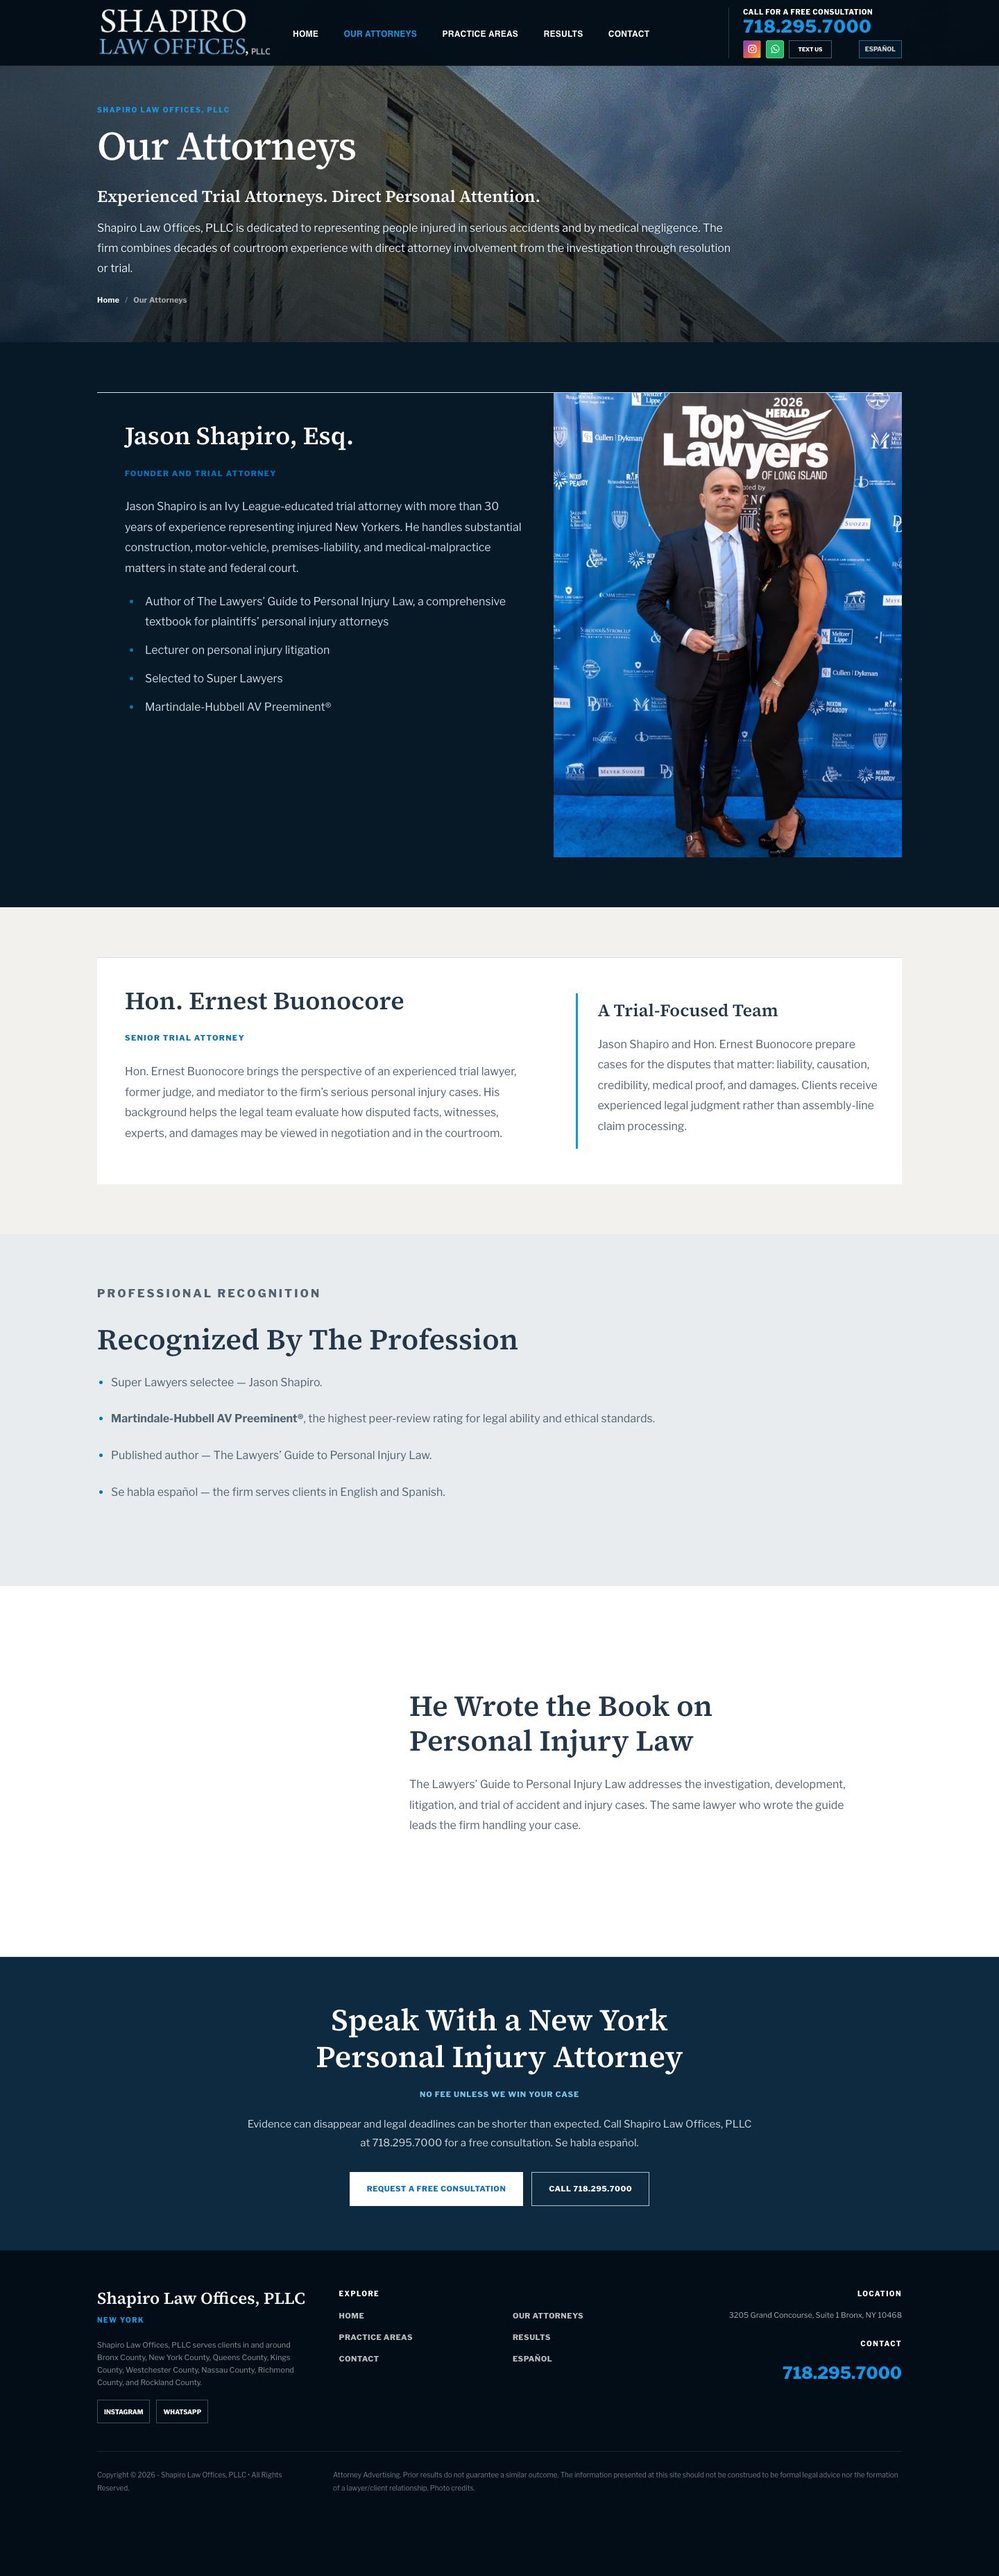
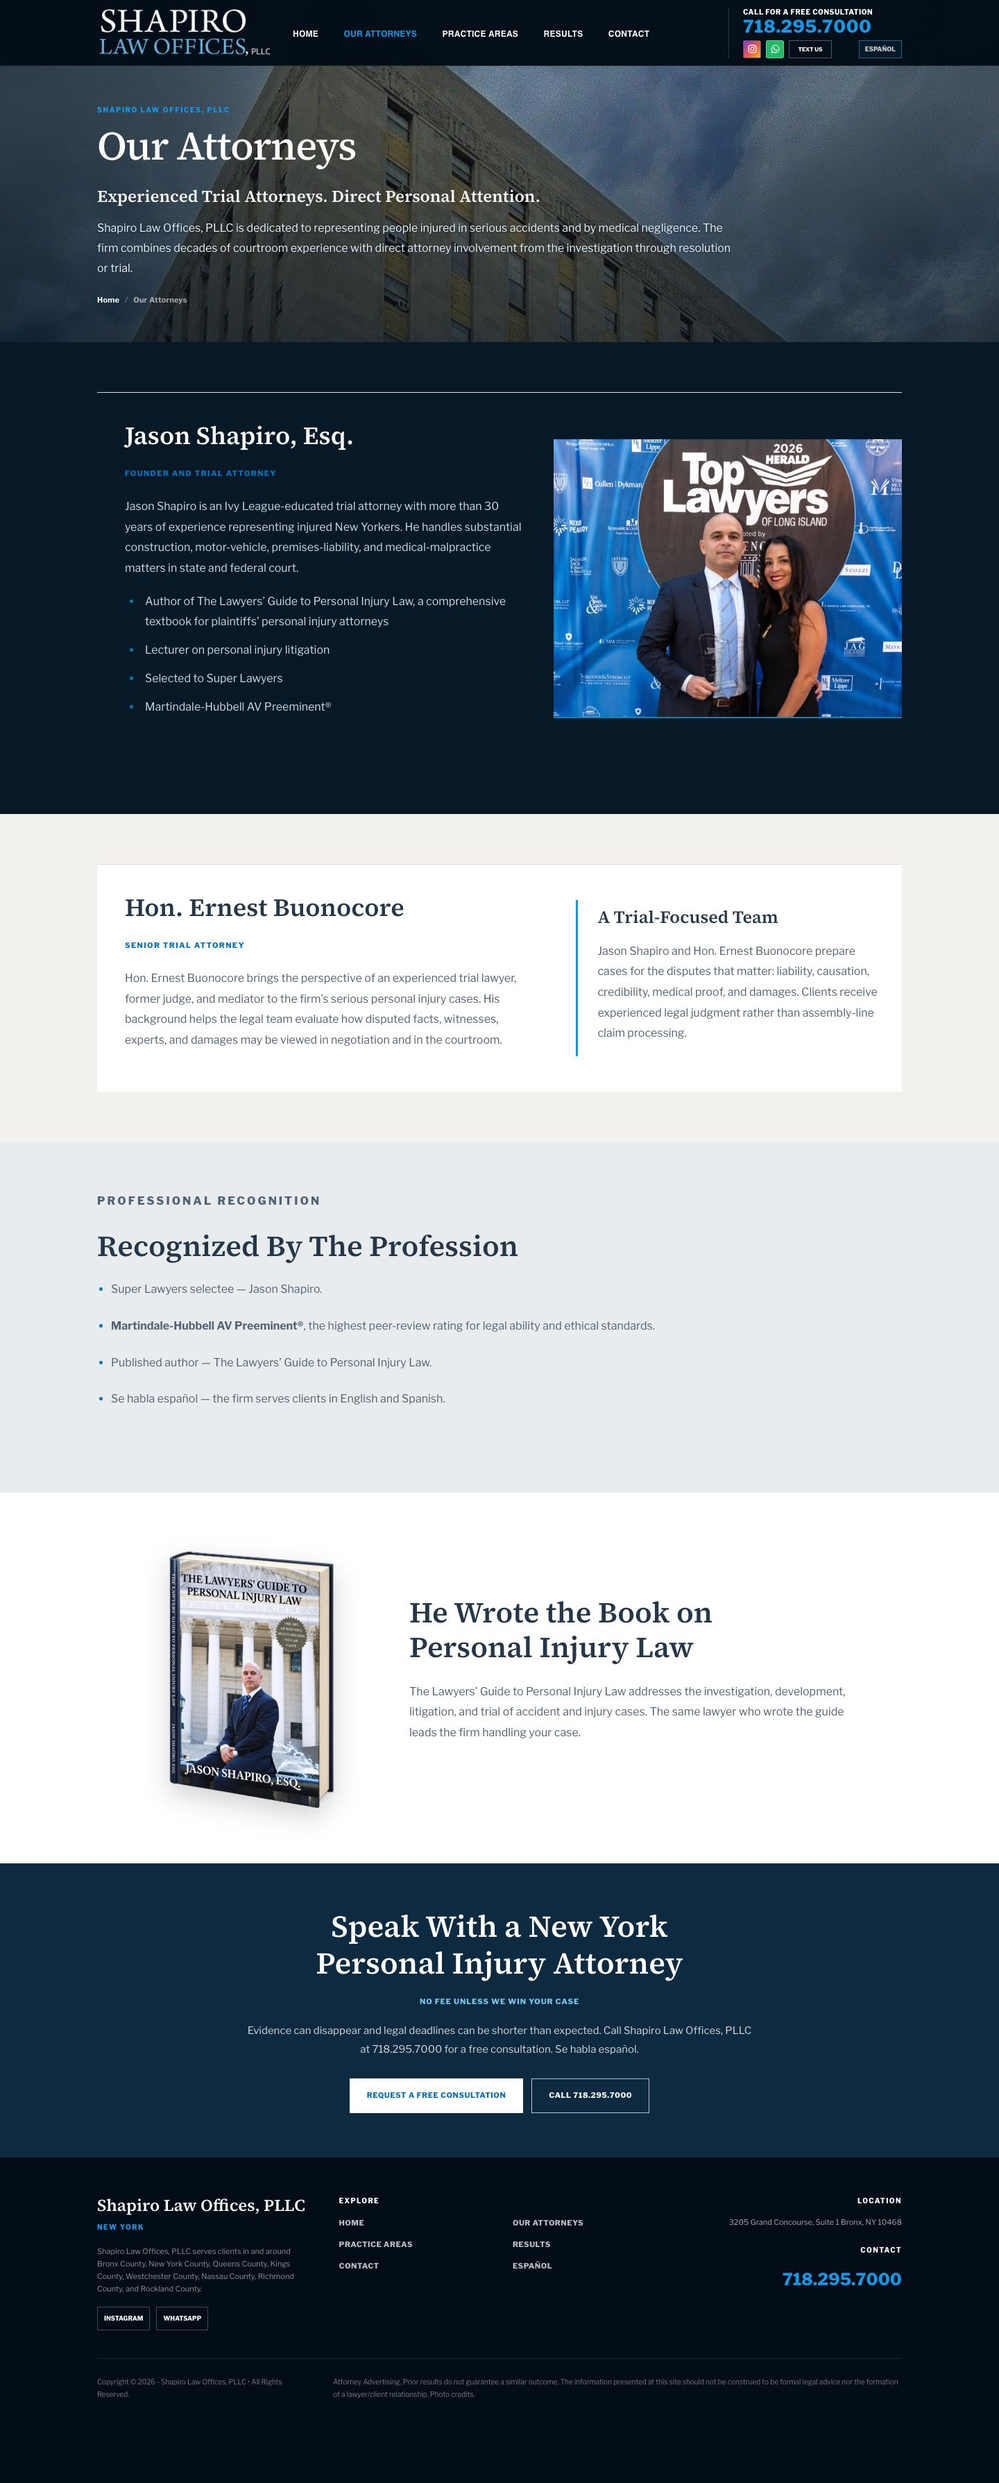
Tighten event photo framing in attorney biographies

diff --git a/css/design-refinement.css b/css/design-refinement.css
@@ -93,8 +93,8 @@
 .design-refined.client-site .client-recognition-list { max-width:980px; margin:24px 0 0; padding-left:24px; }
 .design-refined.client-site .client-recognition-list > li { margin-bottom:18px; padding-left:8px; }
 .design-refined .client-recognition-list p { margin:0; font-size:16px; line-height:1.8; }
-.design-refined .client-attorney-profile__media--event { min-height:0; max-height:none; align-self:center; }
-.design-refined .client-attorney-profile__media--event img { display:block; width:100%; height:auto; max-height:none; object-fit:contain; }
+.design-refined .client-attorney-profile__media--event { width:100%; aspect-ratio:5/4; min-height:0; max-height:none; align-self:center; overflow:hidden; border-bottom:2px solid #1981ad; }
+.design-refined .client-attorney-profile__media--event img { display:block; width:100%; height:100%; max-height:none; object-fit:cover; object-position:50% 8%; }
 .design-refined .client-contact-card { box-shadow:none; border:1px solid var(--design-line); border-top:3px solid #147faa; padding:32px; }
 .design-refined .client-contact-card__heading { font-size:30px!important; }
 .design-refined .client-contact__map iframe { height:300px; }
@@ -163,8 +163,8 @@
  .design-refined .client-attorney-profile__grid { grid-template-columns:1fr; }
  .design-refined .client-attorney-profile__media { max-height:540px; min-height:0; }
  .design-refined .client-attorney-profile__media img { max-height:540px; object-fit:contain; }
- .design-refined .client-attorney-profile__media--event { max-height:none; }
- .design-refined .client-attorney-profile__media--event img { width:min(100%,420px); margin-inline:auto; max-height:none; }
+ .design-refined .client-attorney-profile__media--event { width:calc(100% - 48px); max-width:560px; margin:0 auto 28px; max-height:none; }
+ .design-refined .client-attorney-profile__media--event img { width:100%; height:100%; margin:0; max-height:none; object-fit:cover; }
 }
 @media(max-width:680px){
  .design-refined .client-shell { width:calc(100% - 40px); }

diff --git a/es/practice-areas/medical-malpractice.html b/es/practice-areas/medical-malpractice.html
@@ -12,7 +12,7 @@
 <link href="../../css/styles.css?v=20260917-1" rel="stylesheet"/>
 <link href="https://4mphz.github.io/shapiro-law-redesign-concept/practice-areas/medical-malpractice.html" hreflang="en" rel="alternate"/>
 <link href="https://4mphz.github.io/shapiro-law-redesign-concept/es/practice-areas/medical-malpractice.html" hreflang="es" rel="alternate"/>
-<link href="../../css/approved-copy.css?v=20260927-2" rel="stylesheet"/><link href="../../css/design-refinement.css?v=20260927-2" rel="stylesheet"/></head>
+<link href="../../css/approved-copy.css?v=20260927-2" rel="stylesheet"/><link href="../../css/design-refinement.css?v=20260927-3" rel="stylesheet"/></head>
 <body class="client-site client-inner client-practice-page client-practice-detail-page client-practice-detail-page--medical-malpractice client-document-copy design-refined">
 <a class="skip-link" href="#main-content">Saltar al contenido principal</a>
 <header class="site-header client-header" id="site-header">

diff --git a/practice-areas/medical-malpractice.html b/practice-areas/medical-malpractice.html
@@ -12,7 +12,7 @@
 <link href="../css/styles.css?v=20260917-1" rel="stylesheet"/>
 <link href="https://4mphz.github.io/shapiro-law-redesign-concept/practice-areas/medical-malpractice.html" hreflang="en" rel="alternate"/>
 <link href="https://4mphz.github.io/shapiro-law-redesign-concept/es/practice-areas/medical-malpractice.html" hreflang="es" rel="alternate"/>
-<link href="../css/approved-copy.css?v=20260927-2" rel="stylesheet"/><link href="../css/design-refinement.css?v=20260927-2" rel="stylesheet"/></head>
+<link href="../css/approved-copy.css?v=20260927-2" rel="stylesheet"/><link href="../css/design-refinement.css?v=20260927-3" rel="stylesheet"/></head>
 <body class="client-site client-inner client-practice-page client-practice-detail-page client-practice-detail-page--medical-malpractice client-document-copy client-september-copy design-refined">
 <a class="skip-link" href="#main-content">Skip to main content</a>
 <header class="site-header client-header" id="site-header">

diff --git a/es/practice-areas/construction-scaffold.html b/es/practice-areas/construction-scaffold.html
@@ -12,7 +12,7 @@
 <link href="../../css/styles.css?v=20260917-1" rel="stylesheet"/>
 <link href="https://4mphz.github.io/shapiro-law-redesign-concept/practice-areas/construction-scaffold.html" hreflang="en" rel="alternate"/>
 <link href="https://4mphz.github.io/shapiro-law-redesign-concept/es/practice-areas/construction-scaffold.html" hreflang="es" rel="alternate"/>
-<link href="../../css/approved-copy.css?v=20260927-2" rel="stylesheet"/><link href="../../css/design-refinement.css?v=20260927-2" rel="stylesheet"/></head>
+<link href="../../css/approved-copy.css?v=20260927-2" rel="stylesheet"/><link href="../../css/design-refinement.css?v=20260927-3" rel="stylesheet"/></head>
 <body class="client-site client-inner client-practice-page client-practice-detail-page client-practice-detail-page--construction client-document-copy design-refined">
 <a class="skip-link" href="#main-content">Saltar al contenido principal</a>
 <header class="site-header client-header" id="site-header">

diff --git a/practice-areas/construction-scaffold.html b/practice-areas/construction-scaffold.html
@@ -12,7 +12,7 @@
 <link href="../css/styles.css?v=20260917-1" rel="stylesheet"/>
 <link href="https://4mphz.github.io/shapiro-law-redesign-concept/practice-areas/construction-scaffold.html" hreflang="en" rel="alternate"/>
 <link href="https://4mphz.github.io/shapiro-law-redesign-concept/es/practice-areas/construction-scaffold.html" hreflang="es" rel="alternate"/>
-<link href="../css/approved-copy.css?v=20260927-2" rel="stylesheet"/><link href="../css/design-refinement.css?v=20260927-2" rel="stylesheet"/></head>
+<link href="../css/approved-copy.css?v=20260927-2" rel="stylesheet"/><link href="../css/design-refinement.css?v=20260927-3" rel="stylesheet"/></head>
 <body class="client-site client-inner client-practice-page client-practice-detail-page client-practice-detail-page--construction client-document-copy client-september-copy design-refined">
 <a class="skip-link" href="#main-content">Skip to main content</a>
 <header class="site-header client-header" id="site-header">

diff --git a/es/practice-areas/motor-vehicle.html b/es/practice-areas/motor-vehicle.html
@@ -12,7 +12,7 @@
 <link href="../../css/styles.css?v=20260917-1" rel="stylesheet"/>
 <link href="https://4mphz.github.io/shapiro-law-redesign-concept/practice-areas/motor-vehicle.html" hreflang="en" rel="alternate"/>
 <link href="https://4mphz.github.io/shapiro-law-redesign-concept/es/practice-areas/motor-vehicle.html" hreflang="es" rel="alternate"/>
-<link href="../../css/approved-copy.css?v=20260927-2" rel="stylesheet"/><link href="../../css/design-refinement.css?v=20260927-2" rel="stylesheet"/></head>
+<link href="../../css/approved-copy.css?v=20260927-2" rel="stylesheet"/><link href="../../css/design-refinement.css?v=20260927-3" rel="stylesheet"/></head>
 <body class="client-site client-inner client-practice-page client-practice-detail-page client-practice-detail-page--motor-vehicle client-document-copy design-refined">
 <a class="skip-link" href="#main-content">Saltar al contenido principal</a>
 <header class="site-header client-header" id="site-header">

diff --git a/practice-areas/motor-vehicle.html b/practice-areas/motor-vehicle.html
@@ -12,7 +12,7 @@
 <link href="../css/styles.css?v=20260917-1" rel="stylesheet"/>
 <link href="https://4mphz.github.io/shapiro-law-redesign-concept/practice-areas/motor-vehicle.html" hreflang="en" rel="alternate"/>
 <link href="https://4mphz.github.io/shapiro-law-redesign-concept/es/practice-areas/motor-vehicle.html" hreflang="es" rel="alternate"/>
-<link href="../css/approved-copy.css?v=20260927-2" rel="stylesheet"/><link href="../css/design-refinement.css?v=20260927-2" rel="stylesheet"/></head>
+<link href="../css/approved-copy.css?v=20260927-2" rel="stylesheet"/><link href="../css/design-refinement.css?v=20260927-3" rel="stylesheet"/></head>
 <body class="client-site client-inner client-practice-page client-practice-detail-page client-practice-detail-page--motor-vehicle client-document-copy client-september-copy design-refined">
 <a class="skip-link" href="#main-content">Skip to main content</a>
 <header class="site-header client-header" id="site-header">

diff --git a/practice-areas/aggravation-preexisting-condition.html b/practice-areas/aggravation-preexisting-condition.html
@@ -10,7 +10,7 @@
 <link crossorigin="" href="https://fonts.gstatic.com" rel="preconnect"/>
 <link href="https://fonts.googleapis.com/css2?family=Libre+Franklin:wght@400;500;600;700;800&amp;family=Source+Serif+4:ital,wght@0,500;0,600;1,500&amp;display=swap" rel="stylesheet"/>
 <link href="../css/styles.css?v=20260917-1" rel="stylesheet"/>
-<link href="../css/approved-copy.css?v=20260927-2" rel="stylesheet"/><link href="../css/design-refinement.css?v=20260927-2" rel="stylesheet"/></head>
+<link href="../css/approved-copy.css?v=20260927-2" rel="stylesheet"/><link href="../css/design-refinement.css?v=20260927-3" rel="stylesheet"/></head>
 <body class="client-site client-inner client-practice-page client-practice-detail-page client-practice-detail-page--construction client-document-copy client-september-copy design-refined">
 <a class="skip-link" href="#main-content">Skip to main content</a>
 <header class="site-header client-header" id="site-header">

diff --git a/practice-areas/birth-injury.html b/practice-areas/birth-injury.html
@@ -10,7 +10,7 @@
 <link crossorigin="" href="https://fonts.gstatic.com" rel="preconnect"/>
 <link href="https://fonts.googleapis.com/css2?family=Libre+Franklin:wght@400;500;600;700;800&amp;family=Source+Serif+4:ital,wght@0,500;0,600;1,500&amp;display=swap" rel="stylesheet"/>
 <link href="../css/styles.css?v=20260917-1" rel="stylesheet"/>
-<link href="../css/approved-copy.css?v=20260927-2" rel="stylesheet"/><link href="../css/design-refinement.css?v=20260927-2" rel="stylesheet"/></head>
+<link href="../css/approved-copy.css?v=20260927-2" rel="stylesheet"/><link href="../css/design-refinement.css?v=20260927-3" rel="stylesheet"/></head>
 <body class="client-site client-inner client-practice-page client-practice-detail-page client-practice-detail-page--construction client-document-copy client-september-copy design-refined">
 <a class="skip-link" href="#main-content">Skip to main content</a>
 <header class="site-header client-header" id="site-header">

diff --git a/practice-areas/brain-injuries.html b/practice-areas/brain-injuries.html
@@ -10,7 +10,7 @@
 <link crossorigin="" href="https://fonts.gstatic.com" rel="preconnect"/>
 <link href="https://fonts.googleapis.com/css2?family=Libre+Franklin:wght@400;500;600;700;800&amp;family=Source+Serif+4:ital,wght@0,500;0,600;1,500&amp;display=swap" rel="stylesheet"/>
 <link href="../css/styles.css?v=20260917-1" rel="stylesheet"/>
-<link href="../css/approved-copy.css?v=20260927-2" rel="stylesheet"/><link href="../css/design-refinement.css?v=20260927-2" rel="stylesheet"/></head>
+<link href="../css/approved-copy.css?v=20260927-2" rel="stylesheet"/><link href="../css/design-refinement.css?v=20260927-3" rel="stylesheet"/></head>
 <body class="client-site client-inner client-practice-page client-practice-detail-page client-practice-detail-page--construction client-document-copy client-september-copy design-refined">
 <a class="skip-link" href="#main-content">Skip to main content</a>
 <header class="site-header client-header" id="site-header">

diff --git a/practice-areas/bronx-sidewalk-accidents.html b/practice-areas/bronx-sidewalk-accidents.html
@@ -10,7 +10,7 @@
 <link crossorigin="" href="https://fonts.gstatic.com" rel="preconnect"/>
 <link href="https://fonts.googleapis.com/css2?family=Libre+Franklin:wght@400;500;600;700;800&amp;family=Source+Serif+4:ital,wght@0,500;0,600;1,500&amp;display=swap" rel="stylesheet"/>
 <link href="../css/styles.css?v=20260917-1" rel="stylesheet"/>
-<link href="../css/approved-copy.css?v=20260927-2" rel="stylesheet"/><link href="../css/design-refinement.css?v=20260927-2" rel="stylesheet"/></head>
+<link href="../css/approved-copy.css?v=20260927-2" rel="stylesheet"/><link href="../css/design-refinement.css?v=20260927-3" rel="stylesheet"/></head>
 <body class="client-site client-inner client-practice-page client-practice-detail-page client-practice-detail-page--construction client-document-copy client-september-copy design-refined">
 <a class="skip-link" href="#main-content">Skip to main content</a>
 <header class="site-header client-header" id="site-header">

diff --git a/practice-areas/bus-accidents.html b/practice-areas/bus-accidents.html
@@ -10,7 +10,7 @@
 <link crossorigin="" href="https://fonts.gstatic.com" rel="preconnect"/>
 <link href="https://fonts.googleapis.com/css2?family=Libre+Franklin:wght@400;500;600;700;800&amp;family=Source+Serif+4:ital,wght@0,500;0,600;1,500&amp;display=swap" rel="stylesheet"/>
 <link href="../css/styles.css?v=20260917-1" rel="stylesheet"/>
-<link href="../css/approved-copy.css?v=20260927-2" rel="stylesheet"/><link href="../css/design-refinement.css?v=20260927-2" rel="stylesheet"/></head>
+<link href="../css/approved-copy.css?v=20260927-2" rel="stylesheet"/><link href="../css/design-refinement.css?v=20260927-3" rel="stylesheet"/></head>
 <body class="client-site client-inner client-practice-page client-practice-detail-page client-practice-detail-page--construction client-document-copy client-september-copy design-refined">
 <a class="skip-link" href="#main-content">Skip to main content</a>
 <header class="site-header client-header" id="site-header">
